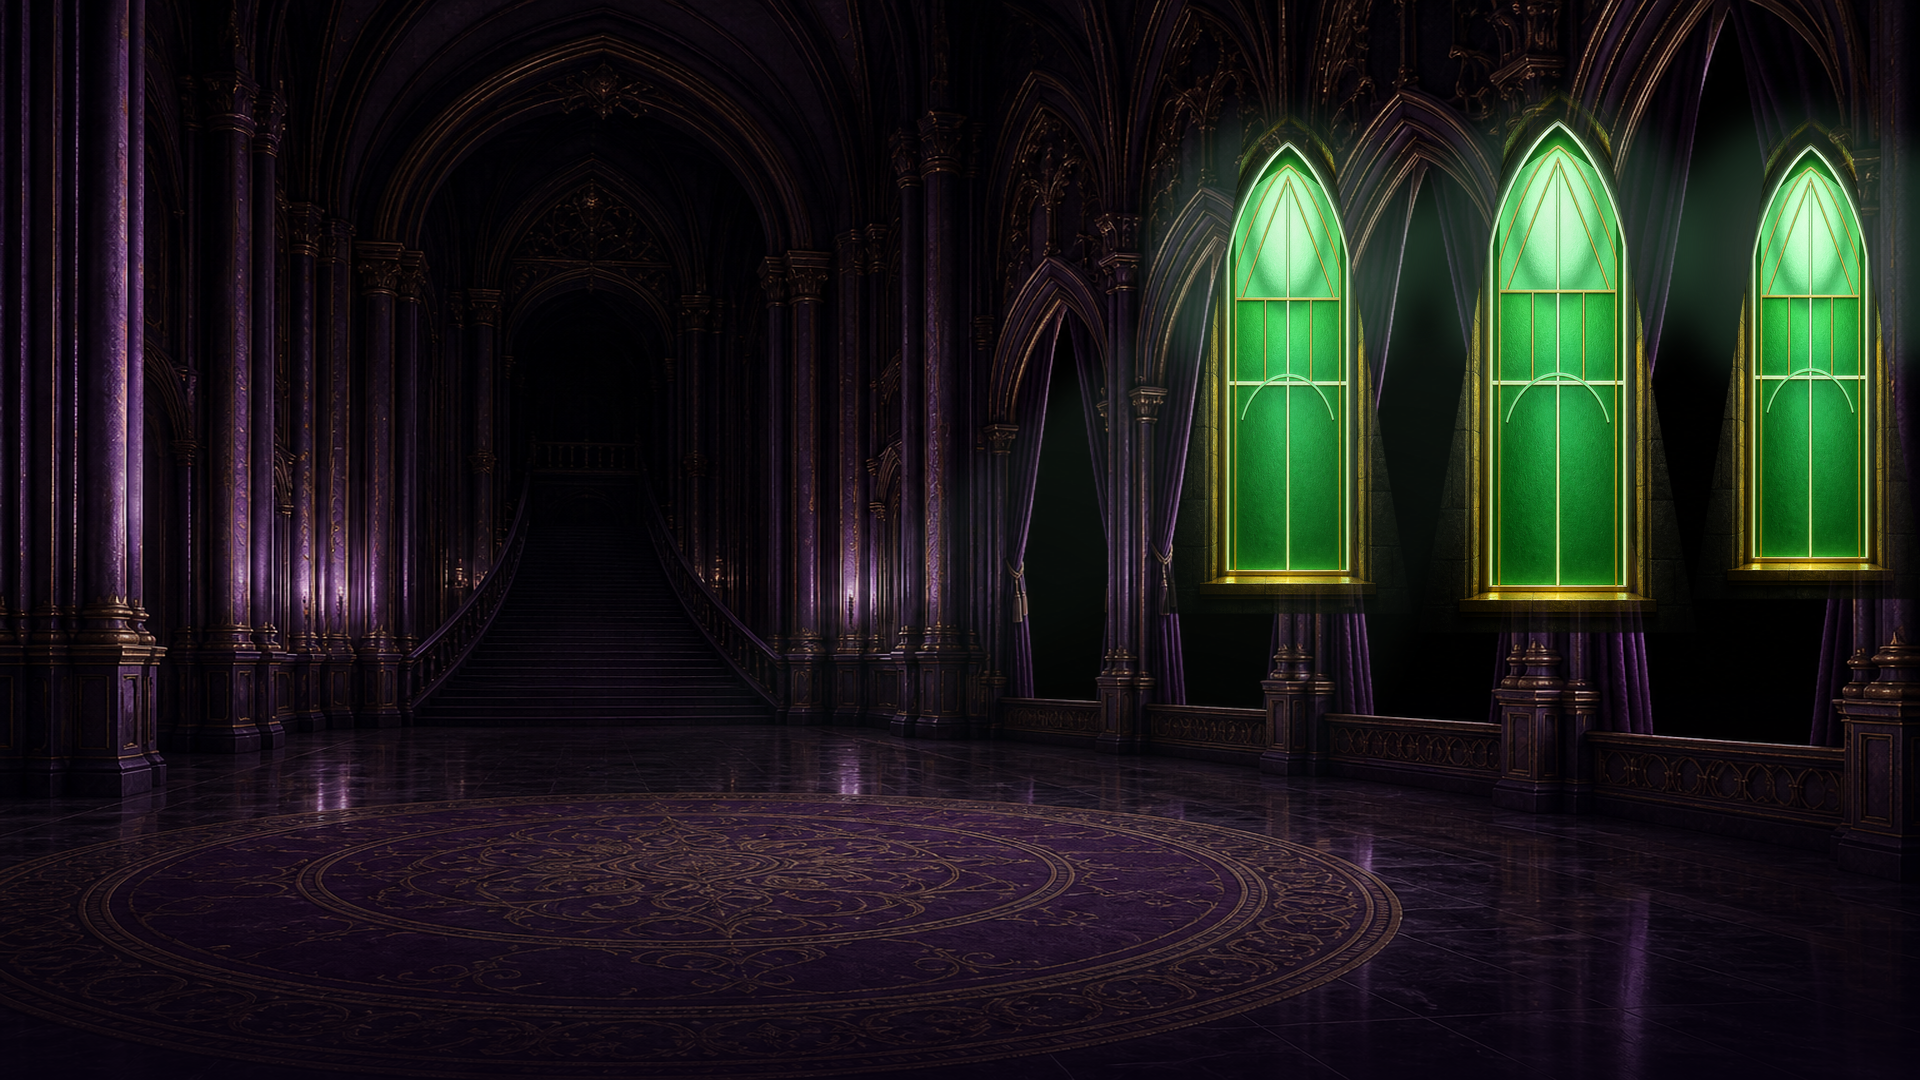
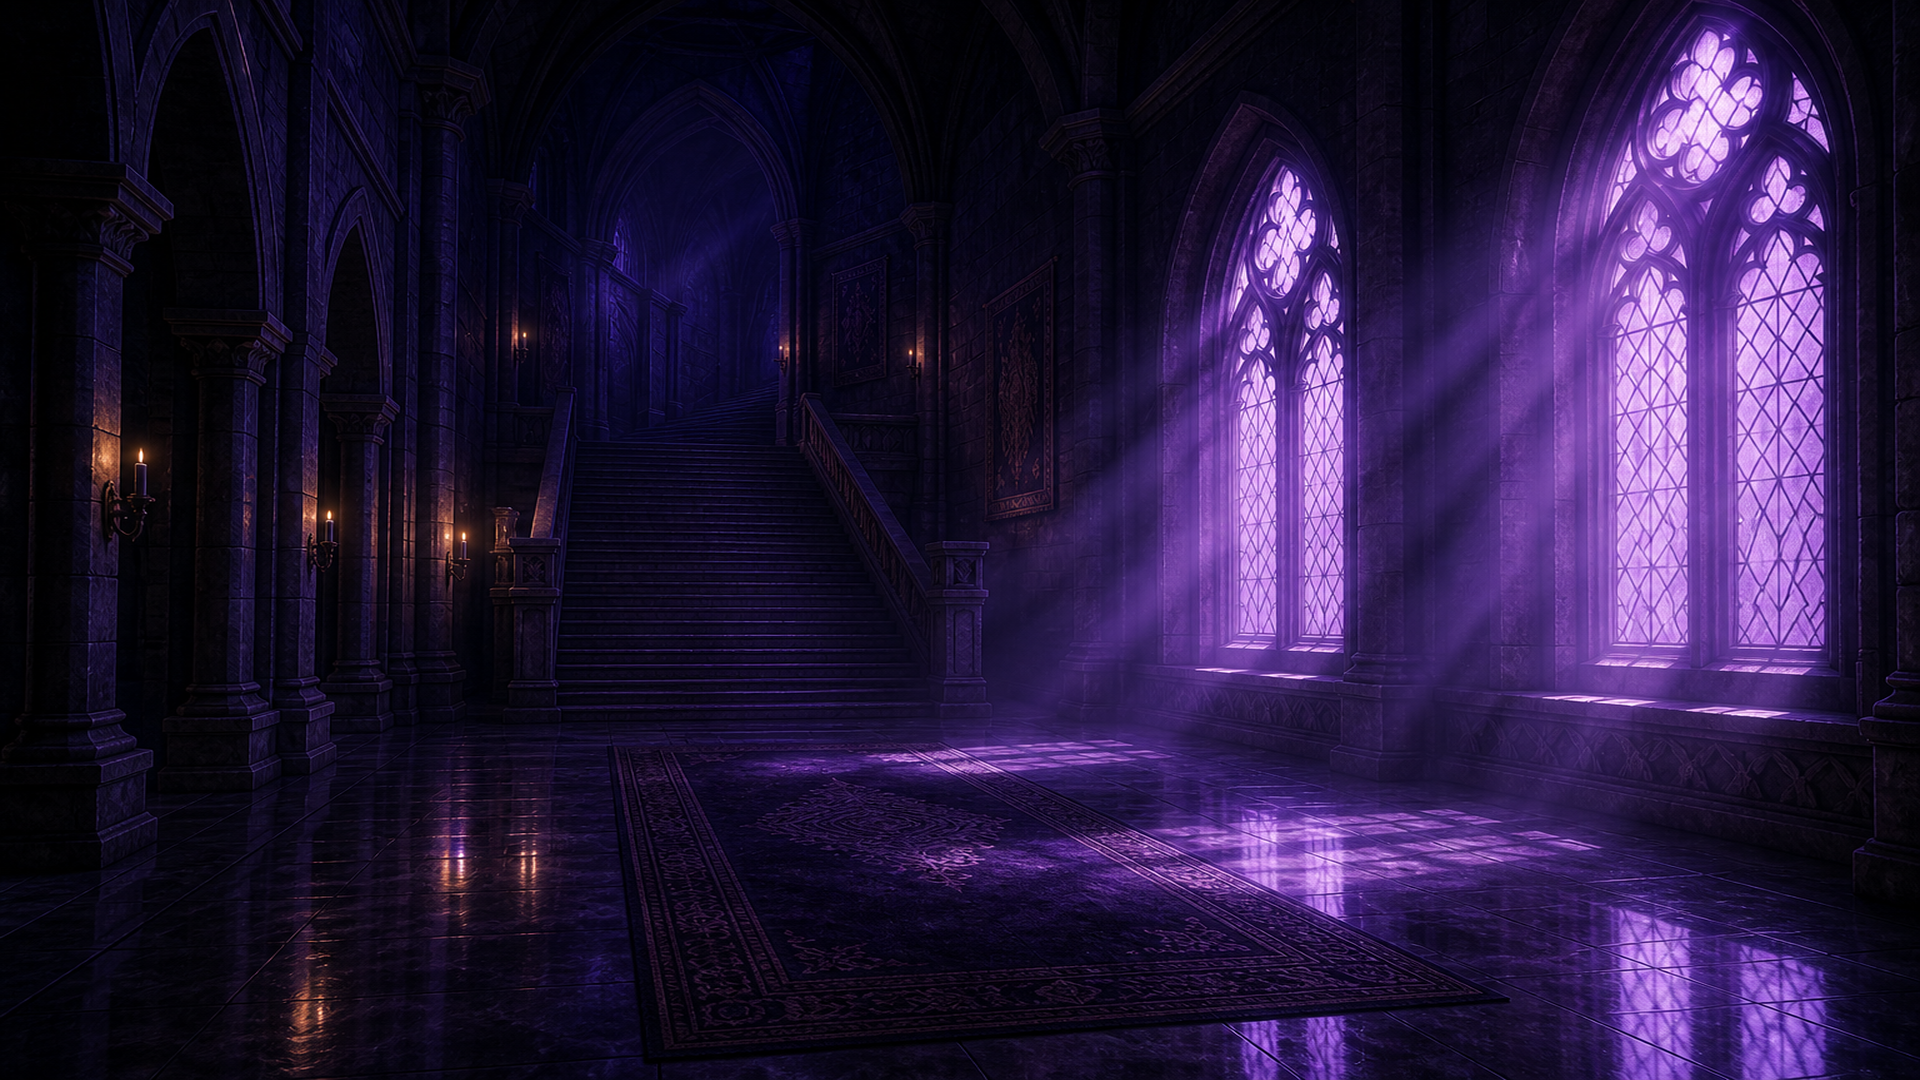
Use purple gothic hall reference as the atelier TV background.
Dark violet hall with purple window rays; cache-bust to atm10.

diff --git a/workshop/templates/workshop/tv_ads.html b/workshop/templates/workshop/tv_ads.html
@@ -74,7 +74,7 @@
       position: absolute;
       inset: -3%;
       background: #12081a center / cover no-repeat;
-      background-image: url("{% static 'workshop/promo/tv43/bg-atelier-purple-hall-fhd.png' %}?v=atm9");
+      background-image: url("{% static 'workshop/promo/tv43/bg-atelier-purple-hall-fhd.png' %}?v=atm10");
       animation: drift-atelier 52s ease-in-out infinite alternate;
       will-change: transform;
     }

diff --git a/workshop/tv_launcher.py b/workshop/tv_launcher.py
@@ -156,7 +156,7 @@ def _tv_url() -> str:
     port = int(os.getenv("IT_MASTER_PORT", "8000"))
     host = os.getenv("IT_MASTER_TV_HOST", "127.0.0.1")
     # Unique marker in query + page title so Win32 never matches the CRM window.
-    return f"http://{host}:{port}/tv?fs=1&os=1&kiosk=ITM-TV-ADS-KIOSK&v=atm9"
+    return f"http://{host}:{port}/tv?fs=1&os=1&kiosk=ITM-TV-ADS-KIOSK&v=atm10"
 
 
 def stop_tv_browser() -> None:
